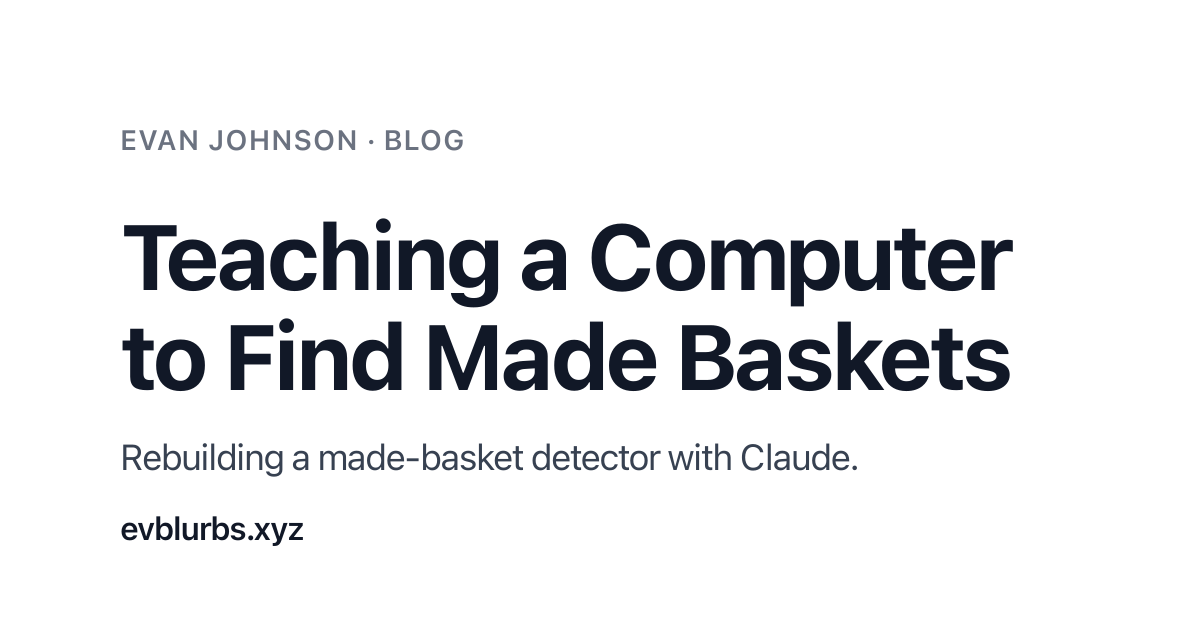
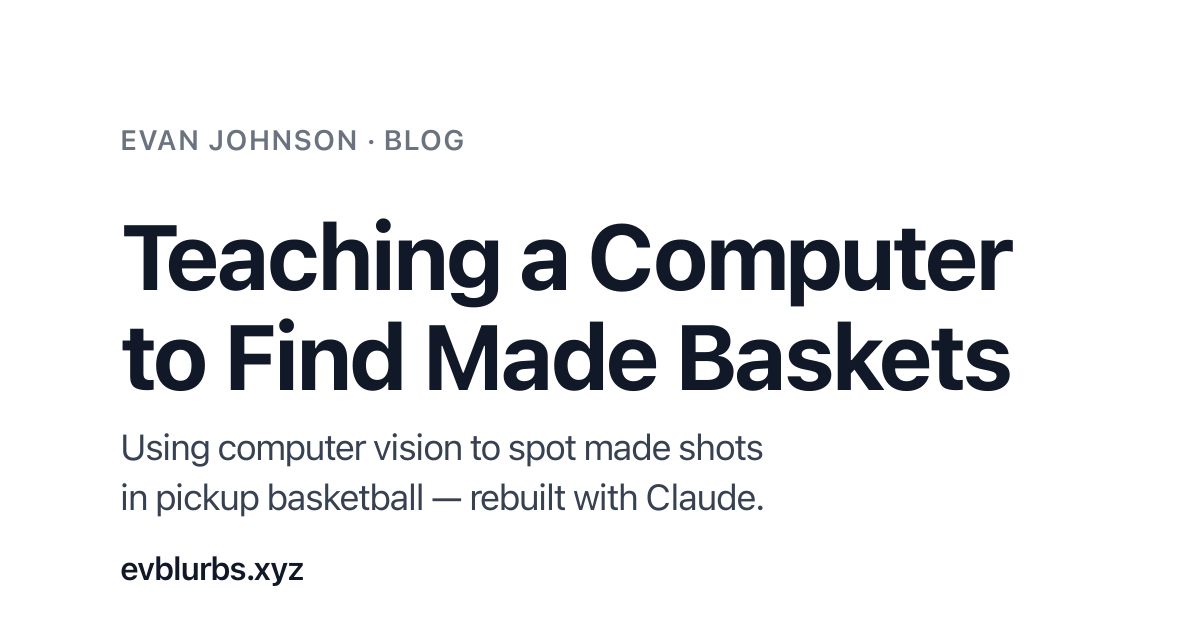
Clarify blog post copy with basketball-specific terminology
"Made baskets" reads as jargon to non-basketball audiences. Keep the headline
for personality but ground the subtitle/description in basketball so the link
preview self-explains.

- OG card subtitle: "Using computer vision to spot made shots in pickup
  basketball — rebuilt with Claude." (wrapped to two lines, re-balanced)
- meta description + blog list excerpt: drop "made-basket detector" jargon,
  lead with the computer-vision-for-made-shots framing

Changed region(s): [[0.0925, 0.6937, 0.7092, 0.9349]]

diff --git a/scripts/blog-posts.js b/scripts/blog-posts.js
@@ -7,7 +7,7 @@ export const blogPosts = [
     slug: "teaching-a-computer-to-find-made-baskets",
     title: "Teaching a Computer to Find Made Baskets",
     description:
-      "I spent a Sunday morning rebuilding a made-basket detector for Saturday Hoops NYC with Claude. Here's the approach, the dead ends, and what I learned along the way.",
+      "Using computer vision to spot made shots in pickup basketball. I spent a Sunday morning rebuilding the detector for Saturday Hoops NYC with Claude — here's the approach, the dead ends, and what I learned along the way.",
     image: "/blog/made-baskets/og-image.png",
   },
 ];

diff --git a/src/pages/Blog.tsx b/src/pages/Blog.tsx
@@ -8,7 +8,7 @@ const posts = [
     slug: "teaching-a-computer-to-find-made-baskets",
     date: "June 7, 2026",
     excerpt:
-      "I spent a Sunday morning rebuilding a made-basket detector for Saturday Hoops NYC with Claude. Here's the approach, the dead ends, and what I learned along the way.",
+      "Using computer vision to spot made shots in pickup basketball. I spent a Sunday morning rebuilding the detector for Saturday Hoops NYC with Claude — here's the approach, the dead ends, and what I learned along the way.",
   },
 ];
 